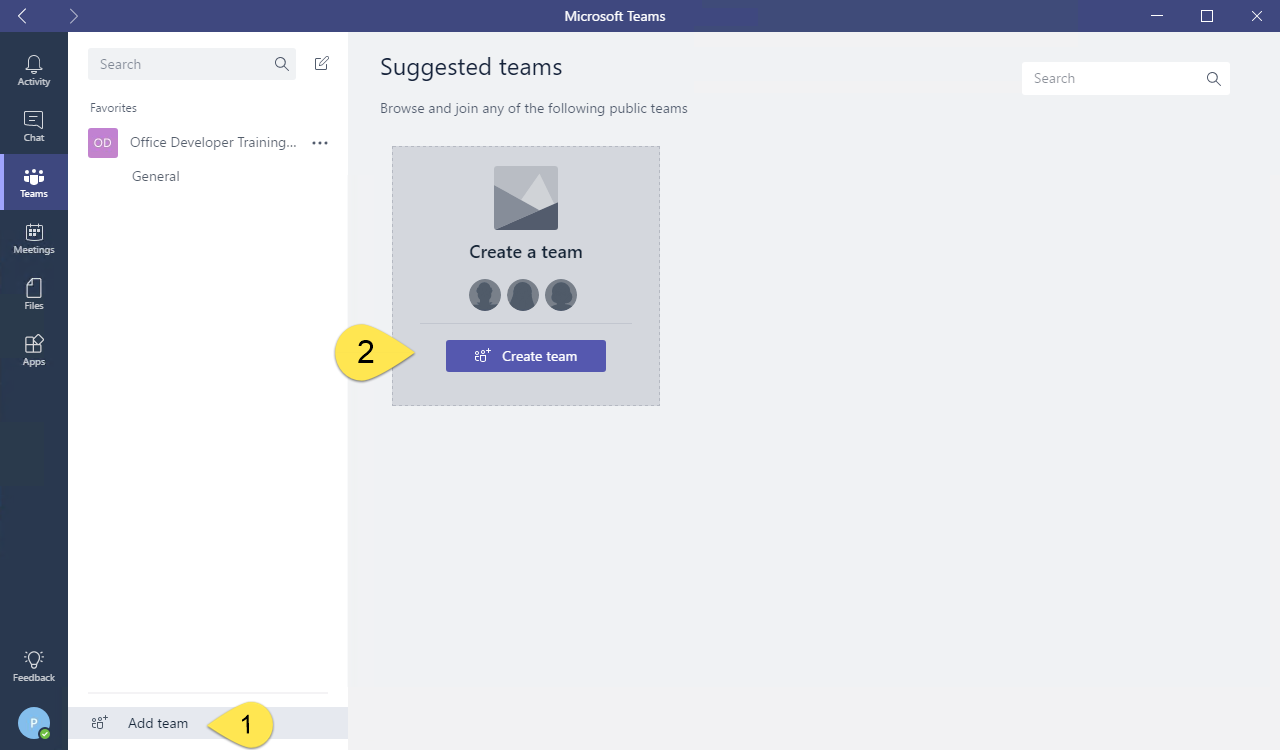
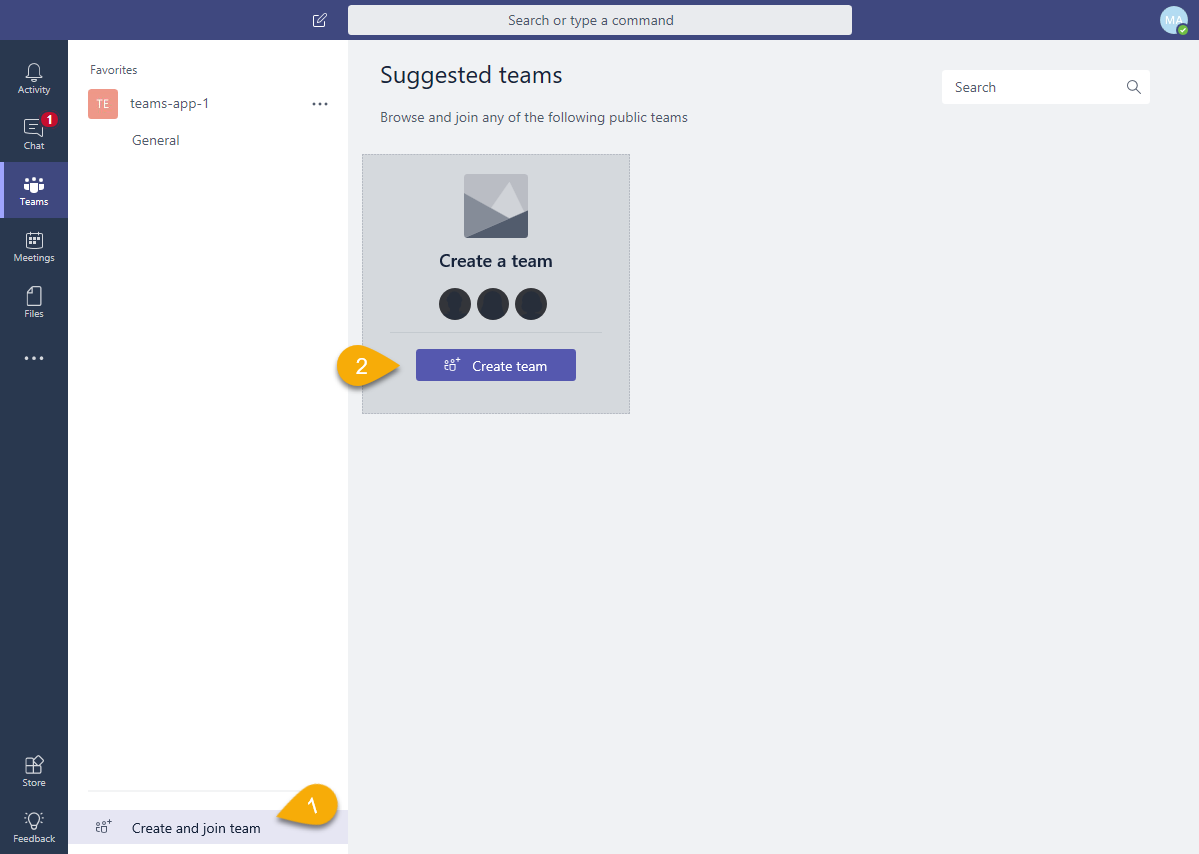
teams-m04-201803-refresh
- ran lab
- verified & updated where appropriate screenshots and instructions are current

Changed region(s): [[0.0, 0.0, 1.0, 1.0], [0.9258, 0.092, 0.9566, 0.1227], [0.8023, 0.092, 0.8332, 0.1227]]

diff --git a/Teams/04 Fundamentals of Microsoft Teams/Lab.md b/Teams/04 Fundamentals of Microsoft Teams/Lab.md
@@ -1,5 +1,5 @@
 # Fundamentals of Teams Development
-----------------
+
 In this lab, you will prepare your computer for developing Microsoft Teams apps, learn the steps to package and test your application, build a basic Micorosft Teams Bot and a Microsoft Teams Tab.
 
 ## Table of Contents
@@ -148,17 +148,25 @@ When the solution was generated, we used a placeholder URL. Now that the tunnel 
 
 ### Sideload app into Microsoft Teams
 
-1. In the Microsoft Teams application, click the **Add team** link. Then click the **Create team** button.
+1. In the Microsoft Teams application, click the **Create and join team** link. Then click the **Create team** button.
 
     ![](Images/Exercise1-08.png)
 
 1. Enter a team name and description. In this example, the Team is named **teams-app-1**. Click **Next**.
 1. Optionally, invite others from your organization to the team. This step can be skipped in this lab.
+<<<<<<< HEAD
 1. The new team is shown. In the left-side panel, click the elipses next to the team name. Choose **Manage team** from the context menu.
 
     ![](Images/Exercise1-09.png)
 
 1. On the Manage team display, click **Bots** in the tab strip. Then click the **Sideload a Bot or Tab** link at the bottom right corner of the application.
+=======
+1. The new team is shown. In the left-side panel, click the ellipses next to the team name. Choose **Manage team** from the context menu.
+
+    ![](Images/Exercise1-09.png)
+
+1. On the Manage team display, click **Apps** in the tab strip. Then click the **Upload a custom app** link at the bottom right corner of the application. (If you don't have this link check the sideload settings in the [Getting Started article](https://msdn.microsoft.com/en-us/microsoft-teams/setup).)
+>>>>>>> teams-m04-201803-refresh
 
     ![](Images/Exercise1-10.png)
 
@@ -233,9 +241,15 @@ Before registering the bot, note the URL configured for the solution in Visual S
 
 ### Register the bot
 
+<<<<<<< HEAD
 1. Go to the Microsoft Bot Framework Portal at https://dev.botframework.com/bots/new and sign in. 
 
 1. Complete the Bot profile section, entering a Display name, Bot handle and description.
+=======
+1. Go to the Microsoft Bot Framework portal at https://dev.botframework.com/bots/new and sign in. (The bot registration portal accepts a Work or School Account or a Microsoft Account.)
+1. Click **Create a bot or skill**. (If the Create button is not shown, click **My bots** in the top navigation.)
+1. Complete the Bot profile section, entering a Display name, unique Bot handle and description.
+>>>>>>> teams-m04-201803-refresh
 
     ![](Images/Exercise2-04.png)
 
@@ -285,7 +299,7 @@ The Bot registration portal can be used to test the bot.
 1. Once the **default.htm** page is displayed, return to the [Bot registration portal](https://dev.botframework.com/bots).
 1. Select your bot.
 1. In the top-right corner of the page, click the **Test** button.
-1. Enter a message and press **Enter**. The message is echoed back along with the length of the mesage.
+1. Enter a message and press **Enter**. The message is echoed back along with the length of the message.
 
     ![](Images/Exercise2-08.png)
 
@@ -296,7 +310,8 @@ The Bot registration portal can be used to test the bot.
 Packaging a bot for Microsoft Teams is identical to packaging a tab. A manifest file (and related resources) are compressed into a zip file and added to a team.
 
 Perform the following in Visual Studio. (Stop debugging before continuing. Leave ngrok running.)
-1.  Right-click on the project, choose **Add | New Folder**. Name the folder **Manifest**.
+
+1. Right-click on the project, choose **Add | New Folder**. Name the folder **Manifest**.
 1. Add the displayed files from the **Lab Files** folder of this repository.
 
     ![](Images/Exercise2-09.png)
@@ -383,7 +398,11 @@ Although not strictly necessary, in this lab the bot will be added to a new Team
 
     ![](Images/Exercise2-12.png)
 
+<<<<<<< HEAD
 1. On the View team display, click **Bots** in the tab strip. Then click the **Sideload a bot or app** link at the bottom right corner of the application.
+=======
+1. On the Manage team display, click **Apps** in the tab strip. Then click the **Upload a custom app** link at the bottom right corner of the application.
+>>>>>>> teams-m04-201803-refresh
 1. Select the **teams-bot1.zip** file from the *bin* folder. Click **Open**.
 1. The app is displayed. Notice information about the app from the manifest (Description and Icon) is displayed.
 
@@ -439,7 +458,7 @@ To enable an application to call the Microsoft Graph, an application registratio
     ```
 
 1. Click the **Add URL** button.
-1. Using the hostname from ngrok, enter a **Redirect URL** to the adminconsent.html file.
+1. Using the hostname from ngrok, enter a **Redirect URL** to the `adminconsent.html` file.
 
     ```
     https://[replace-this].ngrok.io/adminconsent.html
@@ -452,7 +471,7 @@ To enable an application to call the Microsoft Graph, an application registratio
 1. Request permission to read Groups.
     1. Scroll down to the **Microsoft Graph Permissions** section.
     1. Next to **Delegated Permissions**, click the **Add** button.
-    1. In the **Select Permission** dialog, scroll down and select **Group.Read.All**. Click OK.
+    1. In the **Select Permission** dialog, scroll down and select **Group.Read.All**. Click **OK**.
 
         ![](Images/Exercise3-05.png)
 
@@ -660,6 +679,7 @@ These steps assume that the application created in Exercise 1 is named **teams-a
 
 1. Following the steps from Exercise 1, redeploy the app. In summary, perform the following steps.
     1. Update the manifest (if necessary) with the ngrok forwarding address.
+	1. Run `gulp manifest` to rebuild the package if you updated the manifest.
     1. Run `gulp build` and resolve errors.
     1. Run `gulp serve`
     1. Sideload the app into Microsoft Teams.
@@ -788,7 +808,7 @@ These steps assume that the application created in Exercise 1 is named **teams-a
         ```
 
 1. Add a new file to the **web** folder named **auth.html**
-    1. Add the following to the **adminconsent.html** file.
+    1. Add the following to the **auth.html** file.
 
         ```html
         <!DOCTYPE html>

diff --git a/Teams/04 Fundamentals of Microsoft Teams/Demos/02 - teams-bot1/Readme.md b/Teams/04 Fundamentals of Microsoft Teams/Demos/02 - teams-bot1/Readme.md
@@ -27,9 +27,9 @@ To run this demo, perform the following steps from the lab:
 
 ## Register the bot
 
-1. Go to the Microsoft Bot Framework portal at https://dev.botframework.com and sign in. (The bot registration portal accepts a Work or School Account or a Microsoft Account.)
-1. Click **Register**. (If the Register button is not shown, click **My bots** in the top navigation.)
-1. Complete the Bot profile section, entering a Display name, Bot handle and description.
+1. Go to the Microsoft Bot Framework portal at https://dev.botframework.com/bots/new and sign in. (The bot registration portal accepts a Work or School Account or a Microsoft Account.)
+
+1. Complete the Bot profile section, entering a Display name, unique Bot handle and description.
 
     ![](../../Images/Exercise2-04.png)
 
@@ -50,11 +50,11 @@ The **Connect to channels** page is displayed for the newly-created bot. The bot
 
 1. Click the Teams logo.
 
-    ![](Images/Exercise2-06.png)
+    ![](../../Images/Exercise2-06.png)
 
 2. Once the connection is complete, ensure the connection is Enabled and click **Done**
 
-    ![](Images/Exercise2-07.png)
+    ![](../../Images/Exercise2-07.png)
 
 The bot registration is complete.
 
@@ -77,17 +77,17 @@ The bot project must be configured with information from the registration.
 
 Although not strictly necessary, in this lab the bot will be added to a new Team.
 
-1. In the Microsoft Teams application, click the **Add team** link. Then click the **Create team** button.
+1. In the Microsoft Teams application, click the **Create and join team** link. Then click the **Create team** button.
 
     ![](../../Images/Exercise1-08.png)
 
 1. Enter a team name and description. In this example, the Team is named **teams-bot-1**. Click **Next**.
 1. Optionally, invite others from your organization to the team. This step can be skipped in this lab.
-1. The new team is shown. In the left-side panel, click the ellipses next to the team name. Choose **View team** from the context menu.
+1. The new team is shown. In the left-side panel, click the ellipses next to the team name. Choose **Manage team** from the context menu.
 
     ![](../../Images/Exercise2-12.png)
 
-1. On the View team display, click **Apps** in the tab strip. Then click the **Sideload an app** link at the bottom right corner of the application.
+1. On the Manage team display, click **Apps** in the tab strip. Then click the **Upload a custom app** link at the bottom right corner of the application.
 1. Select the **teams-bot1.zip** file from the *bin* folder. Click **Open**.
 1. The app is displayed. Notice information about the app from the manifest (Description and Icon) is displayed.
 

diff --git a/Teams/04 Fundamentals of Microsoft Teams/Demos/01 - teams-app1/Readme.md b/Teams/04 Fundamentals of Microsoft Teams/Demos/01 - teams-app1/Readme.md
@@ -3,6 +3,7 @@
 To run this demo, perform the following steps from the lab:
 
 ## Complete the prerequisites from the lab
+
 1. Install developer tools
 1. Install NodeJS and npm
 1. Install Yeoman and gulp
@@ -38,17 +39,17 @@ To run this demo, perform the following steps from the lab:
 
 ## Sideload app into Microsoft Teams
 
-1. In the Microsoft Teams application, click the **Add team** link. Then click the **Create team** button.
+1. In the Microsoft Teams application, click the **Create and join team** link. Then click the **Create team** button.
 
     ![](../../Images/Exercise1-08.png)
 
 1. Enter a team name and description. In this example, the Team is named **teams-app-1**. Click **Next**.
 1. Optionally, invite others from your organization to the team. This step can be skipped in this lab.
-1. The new team is shown. In the left-side panel, click the ellipses next to the team name. Choose **View team** from the context menu.
+1. The new team is shown. In the left-side panel, click the ellipses next to the team name. Choose **Manage team** from the context menu.
 
     ![](../../Images/Exercise1-09.png)
 
-1. On the View team display, click **Apps** in the tab strip. Then click the **Sideload an app** link at the bottom right corner of the application.
+1. On the Manage team display, click **Apps** in the tab strip. Then click the **Upload a custom app** link at the bottom right corner of the application.
 
     ![](../../Images/Exercise1-10.png)
 

diff --git a/Teams/04 Fundamentals of Microsoft Teams/Demos/03 - teams-app1/README.md b/Teams/04 Fundamentals of Microsoft Teams/Demos/03 - teams-app1/README.md
@@ -82,17 +82,17 @@ To enable an application to call the Microsoft Graph, an application registratio
 
 ## Sideload app into Microsoft Teams
 
-1. In the Microsoft Teams application, click the **Add team** link. Then click the **Create team** button.
+1. In the Microsoft Teams application, click the **Create and join team** link. Then click the **Create team** button.
 
     ![](../../Images/Exercise1-08.png)
 
 1. Enter a team name and description. In this example, the Team is named **teams-app-1**. Click **Next**.
 1. Optionally, invite others from your organization to the team. This step can be skipped in this lab.
-1. The new team is shown. In the left-side panel, click the ellipses next to the team name. Choose **View team** from the context menu.
+1. The new team is shown. In the left-side panel, click the ellipses next to the team name. Choose **Manage team** from the context menu.
 
     ![](../../Images/Exercise1-09.png)
 
-1. On the View team display, click **Apps** in the tab strip. Then click the **Sideload an app** link at the bottom right corner of the application.
+1. On the Manage team display, click **Apps** in the tab strip. Then click the **Upload a custom app** link at the bottom right corner of the application.
 
     ![](../../Images/Exercise1-10.png)
 

diff --git a/Teams/04 Fundamentals of Microsoft Teams/Readme.md b/Teams/04 Fundamentals of Microsoft Teams/Readme.md
@@ -1,5 +1,4 @@
 # Fundamentals of Microsoft Teams
-----------
 
 ## Lab - Fundamentals of Microsoft Teams
 
@@ -23,9 +22,11 @@ In this lab, you will walk through building, packaging, and deploying your Micro
 
 ## Version history
 
-| Version |      Date       |    Comments     |
-| ------- | --------------- | --------------- |
-| 1.0     | October 6, 2017 | Initial release |
+| Version |       Date        |             Comments              |
+| ------- | ----------------- | --------------------------------- |
+| 1.1     | February 25, 2018 | Code Review and minor corrections |
+| 1.0     | October 6, 2017   | Initial release                   |
 
 ## Disclaimer
+
 **THIS CODE IS PROVIDED *AS IS* WITHOUT WARRANTY OF ANY KIND, EITHER EXPRESS OR IMPLIED, INCLUDING ANY IMPLIED WARRANTIES OF FITNESS FOR A PARTICULAR PURPOSE, MERCHANTABILITY, OR NON-INFRINGEMENT.**

diff --git a/Teams/04 Fundamentals of Microsoft Teams/Demos/Readme.md b/Teams/04 Fundamentals of Microsoft Teams/Demos/Readme.md
@@ -1,4 +1,4 @@
-## Fundamentals of Microsoft Teams: Demos
+# Fundamentals of Microsoft Teams: Demos
 
 This directory contains the completed code for **teams-app1** in the [lab manual](../Lab.md).  If you do not want to go through all the steps for building the app, you may run the completed code samples.
 
